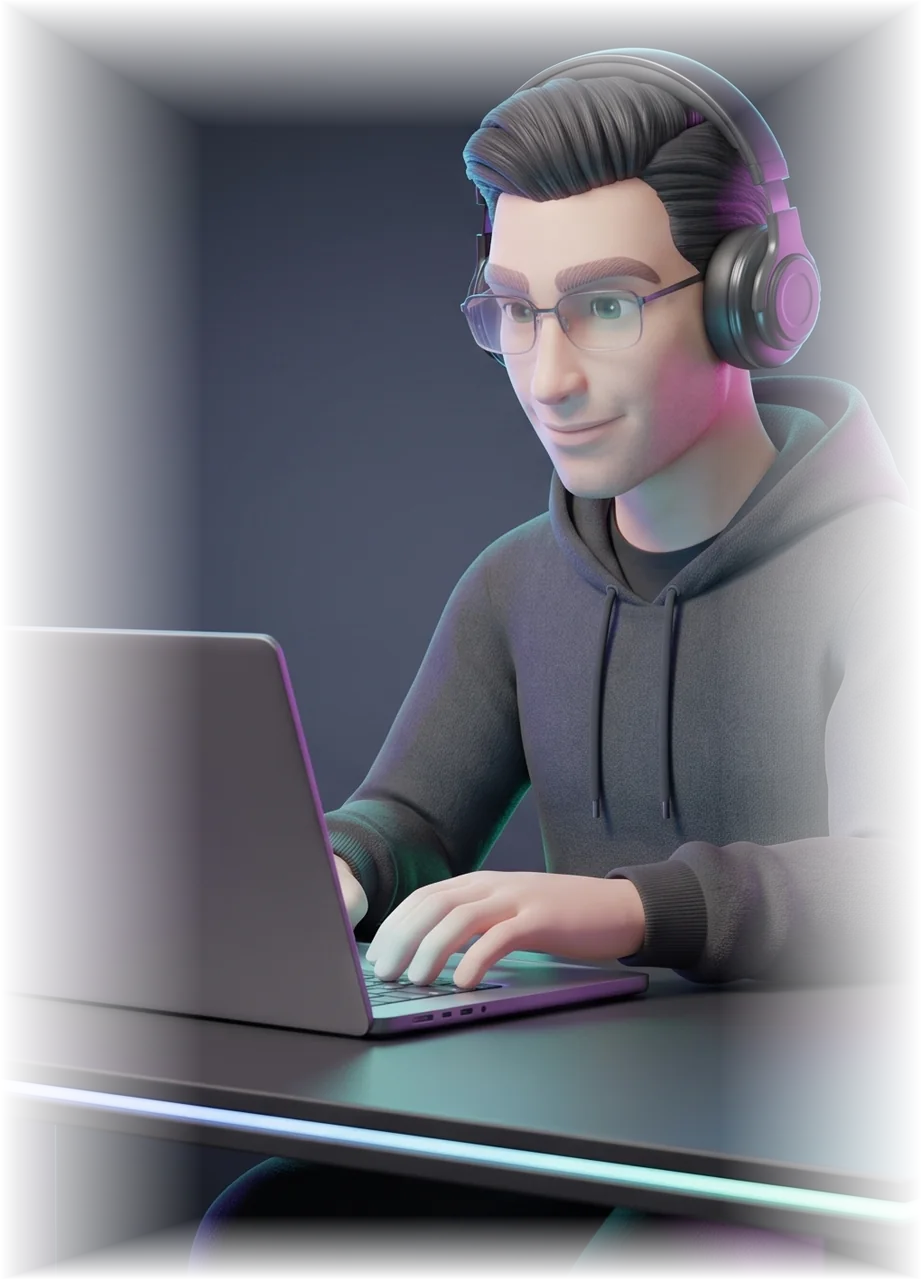
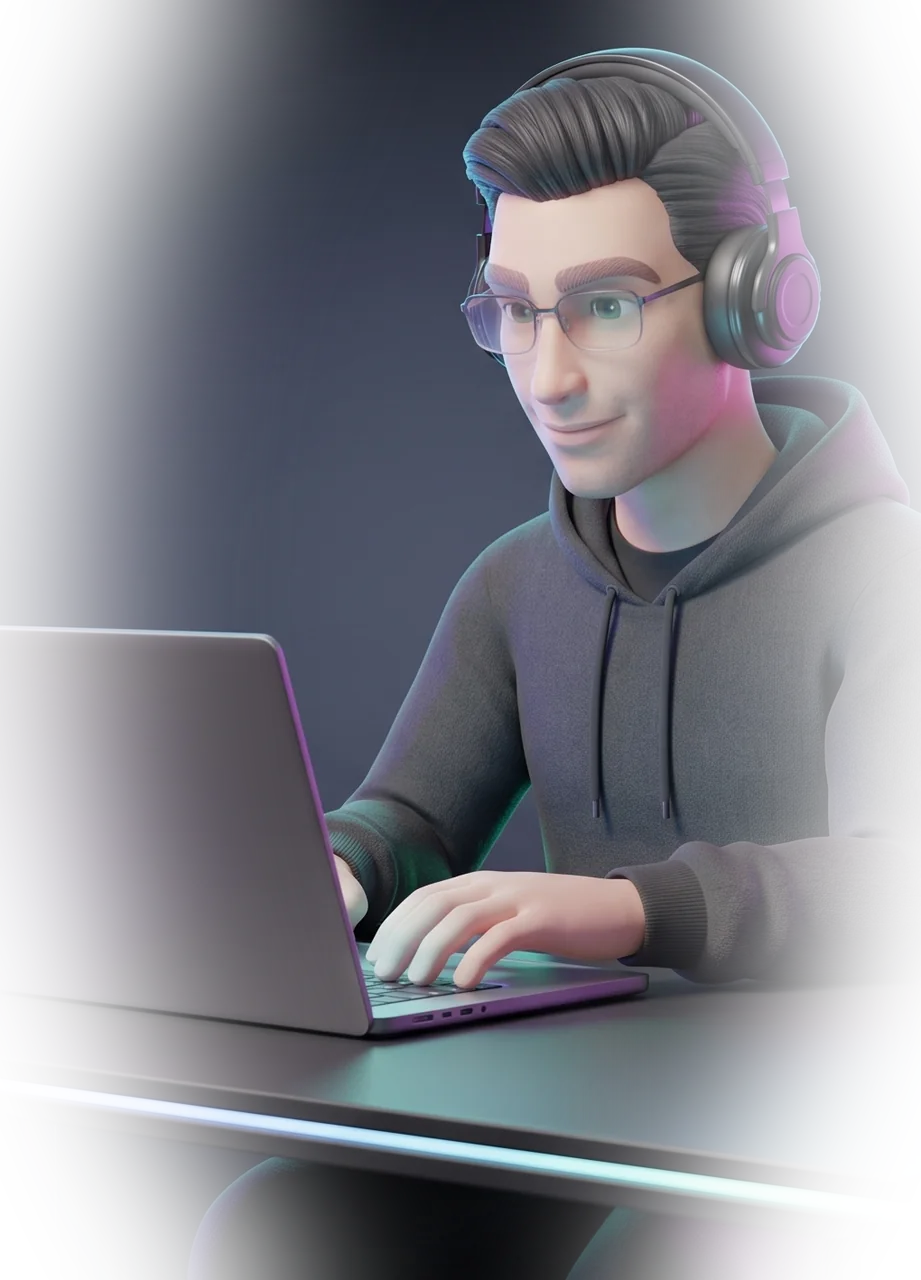
Blend characters with a radial vignette (no box)
The rectangular edge-feather left a boxy opaque core: the render's spotlight
backdrop has the same brightness/hue as the dark clothing, so it can't be keyed
out per-pixel. Switch to a soft ellipse vignette centred on the figure, so the
spotlight fades outward into the page as a radial glow with no straight edges.
Soften the CSS character glow to match, so the figures read as part of the dark
background instead of a pasted-in box.

diff --git a/src/index.css b/src/index.css
@@ -137,12 +137,12 @@ section[id] {
     inset: 8% 2% 2% 2%;
     border-radius: 50%;
     background: radial-gradient(
-      52% 58% at 50% 42%,
-      rgba(77, 139, 255, 0.34),
-      rgba(198, 92, 255, 0.22) 55%,
-      transparent 76%
+      58% 62% at 50% 44%,
+      rgba(77, 139, 255, 0.20),
+      rgba(198, 92, 255, 0.13) 55%,
+      transparent 78%
     );
-    filter: blur(30px);
+    filter: blur(40px);
     z-index: -1;
     pointer-events: none;
   }

diff --git a/scripts/process-characters.py b/scripts/process-characters.py
@@ -11,7 +11,7 @@ Put the sources in `characters-src/` (gitignored) and run:
 Outputs go to `public/characters/*.webp`.
 """
 import os
-from PIL import Image, ImageChops, ImageDraw
+from PIL import Image, ImageChops, ImageDraw, ImageFilter
 
 ROOT = os.path.dirname(os.path.dirname(os.path.abspath(__file__)))
 SRC = os.path.join(ROOT, "characters-src")
@@ -45,32 +45,22 @@ def paint_out_watermark(img: Image.Image) -> Image.Image:
     return img
 
 
-def feather_edges(img: Image.Image, fx: float = 0.22, fy_top: float = 0.05,
-                  fy_bot: float = 0.10) -> Image.Image:
-    """Fade the outer edges to transparent so the dark backdrop melts into the
-    page instead of showing as a rectangle. Keeps the centre (character) opaque."""
+def feather_edges(img: Image.Image, rx: float = 0.40, ry: float = 0.58,
+                  cx: float = 0.5, cy: float = 0.47, blur: float = 0.085) -> Image.Image:
+    """Vignette the backdrop to transparency with a SOFT ELLIPSE centred on the
+    character, so the render's own spotlight fades outward into the page as a
+    radial glow instead of a rectangular box. A rectangular feather would leave a
+    boxy opaque core (the spotlight has the same brightness as the dark clothing,
+    so it can't be keyed out per-pixel); a radial fade has no straight edges, so
+    the figure reads as part of the dark background."""
     img = img.convert("RGBA")
     w, h = img.size
-
-    def ramp(n, lo, hi):
-        row = Image.new("L", (n, 1))
-        px = row.load()
-        a = max(1, int(n * lo))
-        b = n - max(1, int(n * hi))
-        for i in range(n):
-            if i < a:
-                v = int(255 * i / a)
-            elif i > b:
-                v = int(255 * (n - i) / max(1, n - b))
-            else:
-                v = 255
-            px[i, 0] = max(0, min(255, v))
-        return row
-
-    hgrad = ramp(w, fx, fx).resize((w, h))
-    vgrad = ramp(h, fy_top, fy_bot).transpose(Image.ROTATE_90).resize((w, h))
-    alpha = ImageChops.darker(hgrad, vgrad)
-    img.putalpha(alpha)
+    mask = Image.new("L", (w, h), 0)
+    ImageDraw.Draw(mask).ellipse(
+        [(cx - rx) * w, (cy - ry) * h, (cx + rx) * w, (cy + ry) * h], fill=255
+    )
+    mask = mask.filter(ImageFilter.GaussianBlur(max(1, int(w * blur))))
+    img.putalpha(mask)
     return img
 
 
